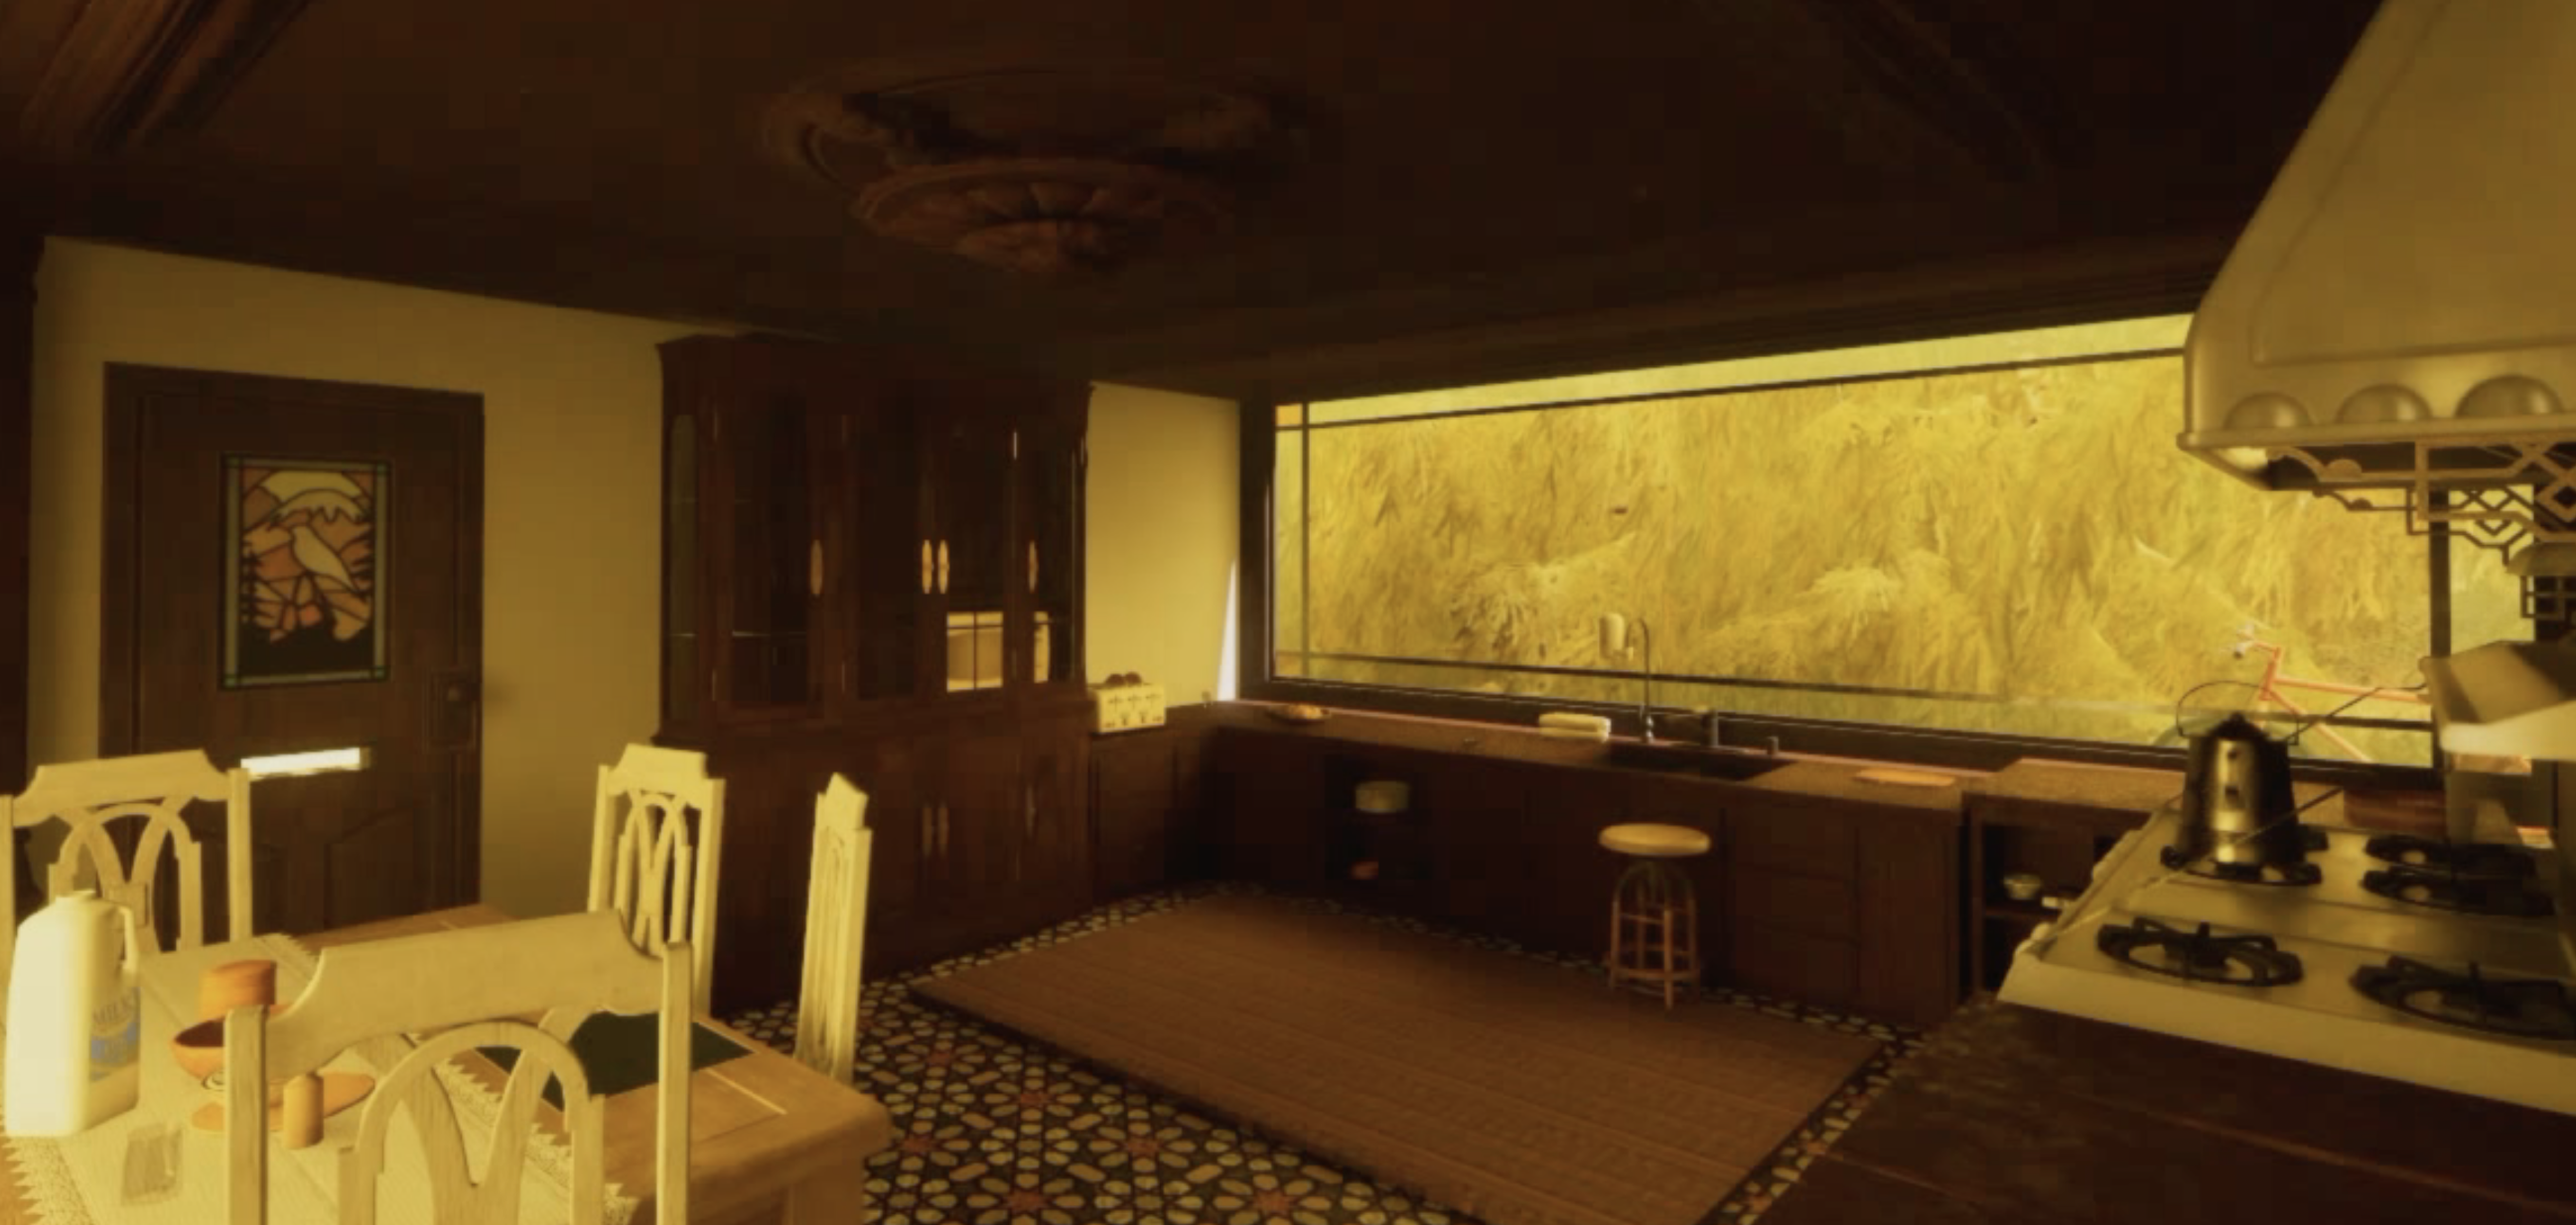
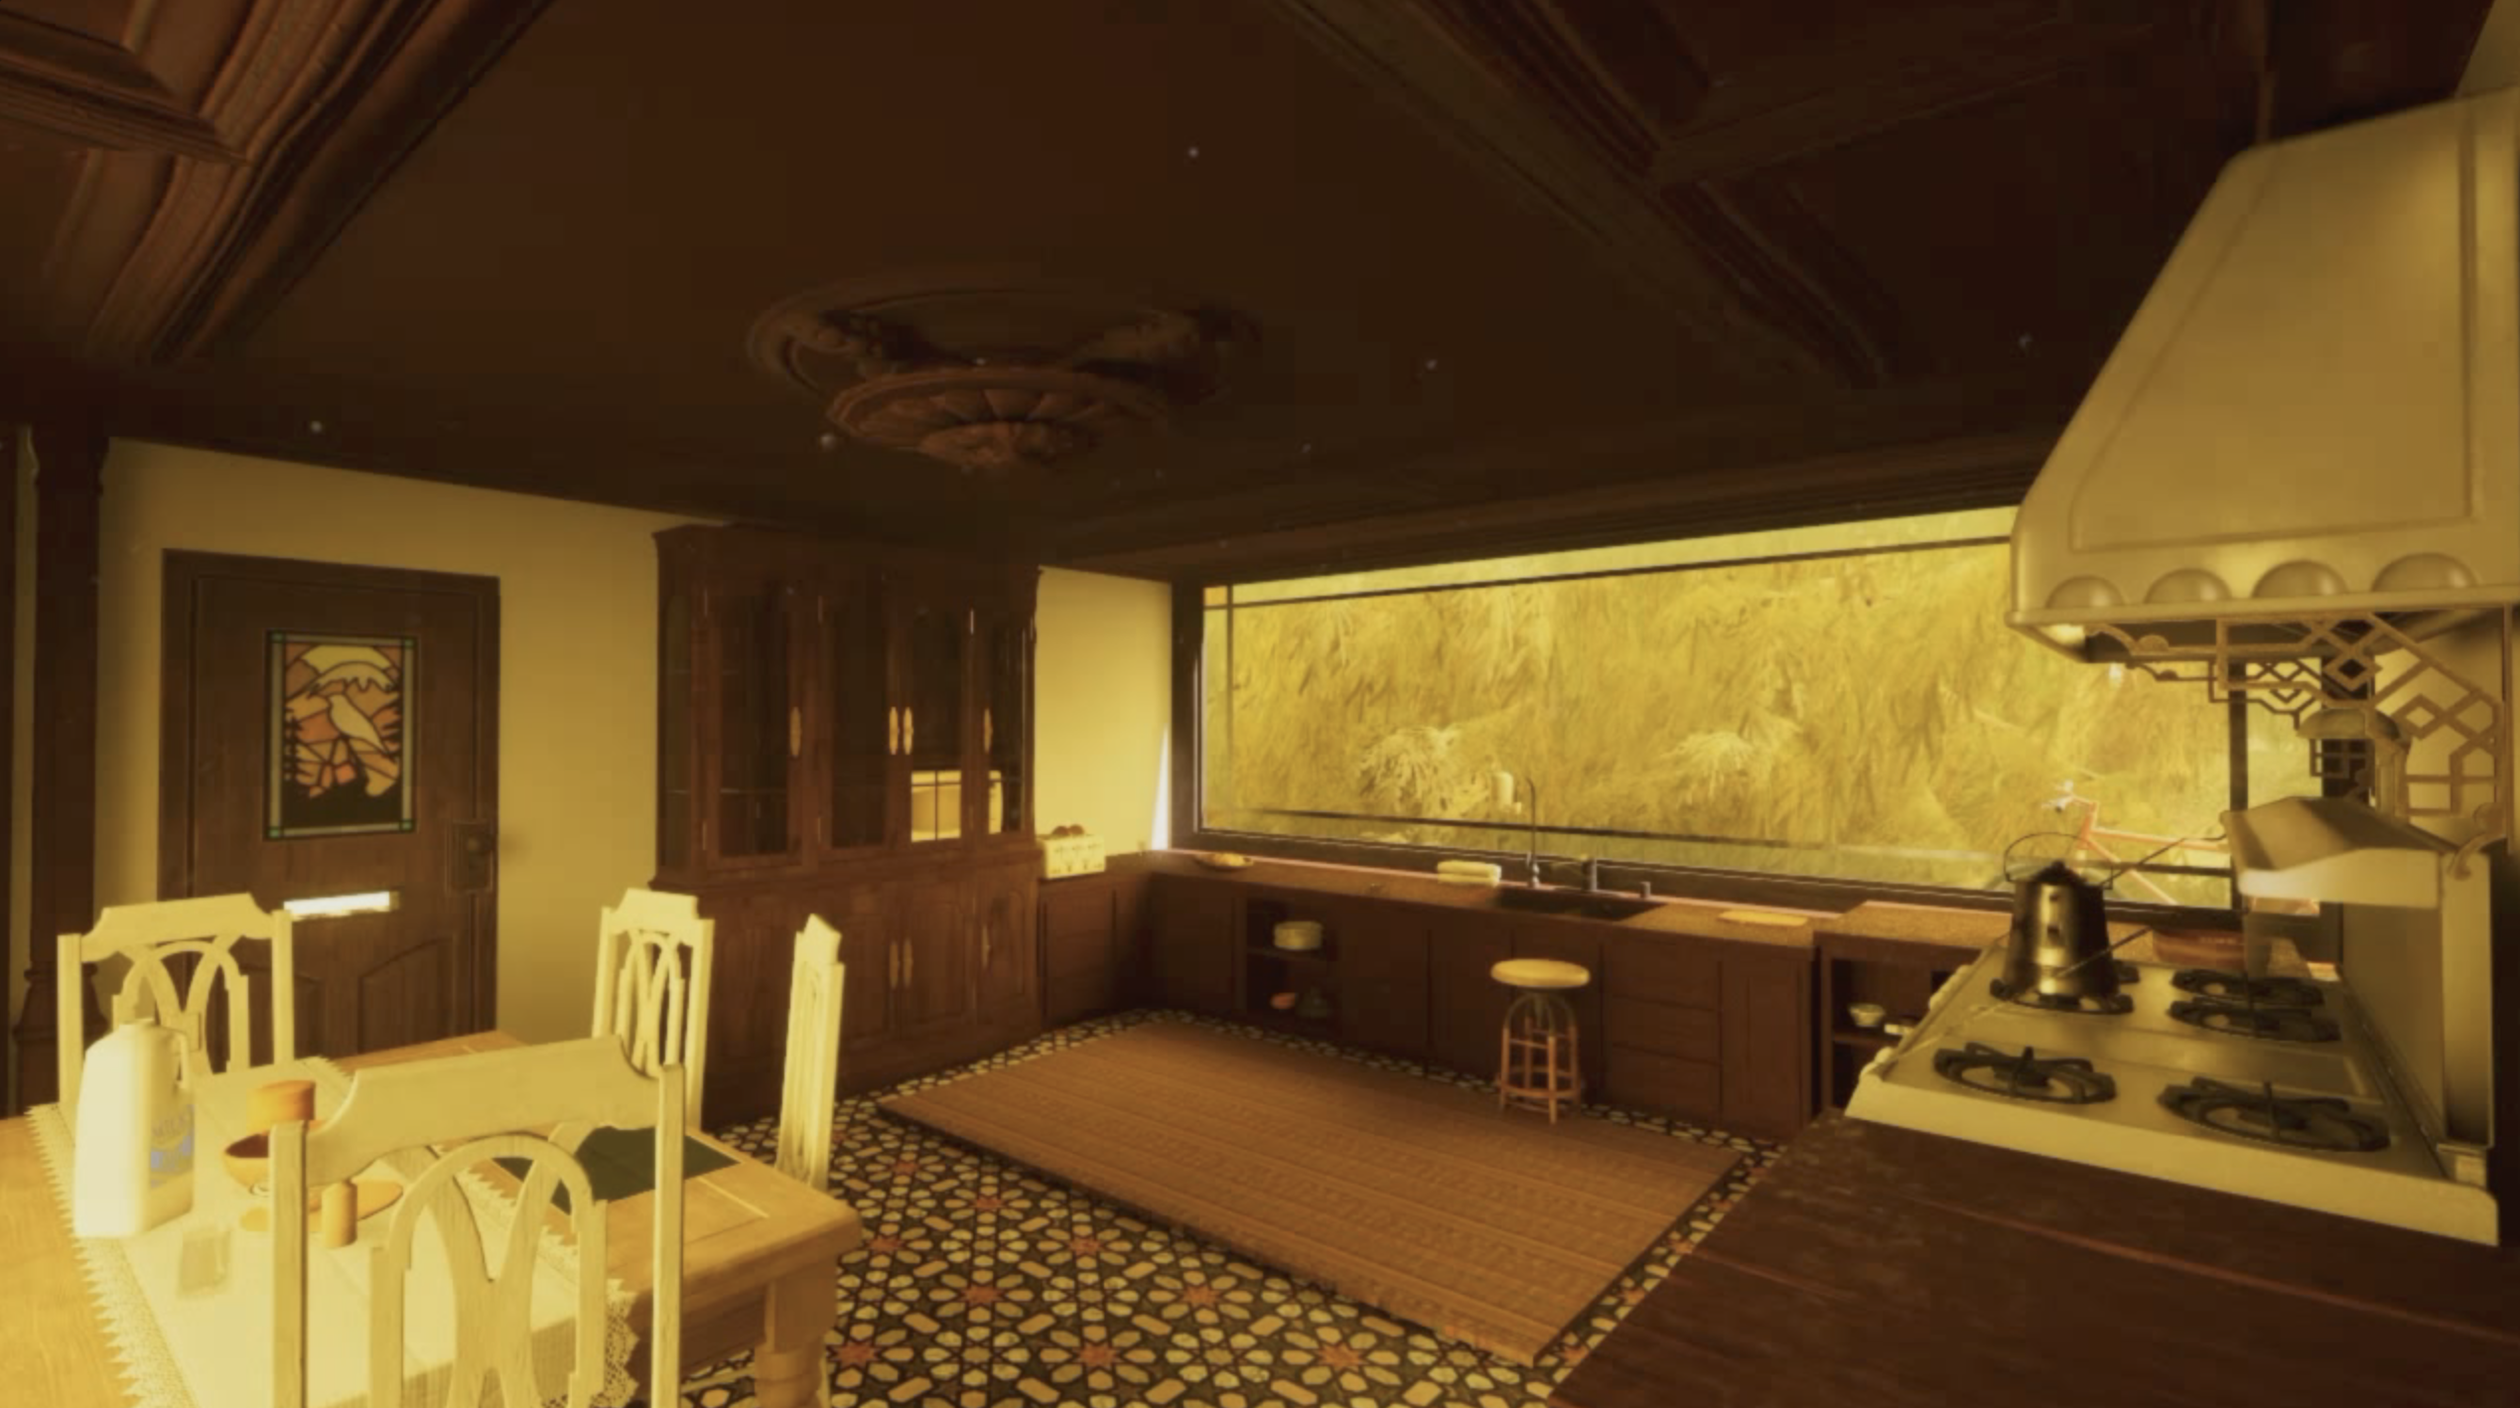
project specific changes

diff --git a/public/project-pages/postcards-between-worlds.html b/public/project-pages/postcards-between-worlds.html
@@ -161,36 +161,6 @@
         </div>
 
         <div class="project-section">
-          <div class="project-content-container"></div>
-          <div class="inline-video-container">
-            <figure>
-              <video
-                autoplay=""
-                class="inline-video"
-                controls=""
-                crossorigin="anonymous"
-                height="700"
-                loop=""
-                muted=""
-                playsinline=""
-                preload="auto"
-                width="700"
-              >
-                <source
-                  src="../assets/images/project-pages/postcards-between-worlds/GrowingFlowers.mp4"
-                  type="video/mp4"
-                />
-                Your browser does not support the video tag.
-              </video>
-              <div></div>
-              <div></div>
-              <div></div>
-              <div></div>
-            </figure>
-          </div>
-        </div>
-
-        <div class="project-section">
           <div class="project-content-container">
             <h3>Narrative drawn from lived experiences</h3>
             <p>
@@ -225,6 +195,36 @@
               >
                 <source
                   src="../assets/images/project-pages/postcards-between-worlds/FoggySky.mp4"
+                  type="video/mp4"
+                />
+                Your browser does not support the video tag.
+              </video>
+              <div></div>
+              <div></div>
+              <div></div>
+              <div></div>
+            </figure>
+          </div>
+        </div>
+
+        <div class="project-section">
+          <div class="project-content-container"></div>
+          <div class="inline-video-container">
+            <figure>
+              <video
+                autoplay=""
+                class="inline-video"
+                controls=""
+                crossorigin="anonymous"
+                height="700"
+                loop=""
+                muted=""
+                playsinline=""
+                preload="auto"
+                width="700"
+              >
+                <source
+                  src="../assets/images/project-pages/postcards-between-worlds/GrowingFlowers.mp4"
                   type="video/mp4"
                 />
                 Your browser does not support the video tag.
@@ -444,7 +444,36 @@
           <div class="inline-img-container">
             <figure>
               <img
-                alt="First Screen of the User Interface"
+                alt="Meadow rendered in Unreal Engine"
+                class="inline-img"
+                src="../assets/images/project-pages/postcards-between-worlds/meadow.png"
+              />
+              <div></div>
+              <div></div>
+              <div></div>
+              <div></div>
+            </figure>
+          </div>
+          <div class="inline-img-container">
+            <figure>
+              <img
+                alt="Meadow with smoke"
+                class="inline-img"
+                src="../assets/images/project-pages/postcards-between-worlds/meadowSmoke.png"
+              />
+              <div></div>
+              <div></div>
+              <div></div>
+              <div></div>
+            </figure>
+          </div>
+        </div>
+
+        <div class="project-section">
+          <div class="inline-img-container">
+            <figure>
+              <img
+                alt="Kitchen rendered in Unreal Engine"
                 class="inline-img"
                 src="../assets/images/project-pages/postcards-between-worlds/kitchen.png"
               />
@@ -457,9 +486,38 @@
           <div class="inline-img-container">
             <figure>
               <img
-                alt="First Screen of the User Interface"
+                alt="Kitchen with smoke"
                 class="inline-img"
-                src="../assets/images/project-pages/postcards-between-worlds/meadowSmoke.png"
+                src="../assets/images/project-pages/postcards-between-worlds/kitchenSmoke.png"
+              />
+              <div></div>
+              <div></div>
+              <div></div>
+              <div></div>
+            </figure>
+          </div>
+        </div>
+
+        <div class="project-section">
+          <div class="inline-img-container">
+            <figure>
+              <img
+                alt="Sky and clouds"
+                class="inline-img"
+                src="../assets/images/project-pages/postcards-between-worlds/sky.png"
+              />
+              <div></div>
+              <div></div>
+              <div></div>
+              <div></div>
+            </figure>
+          </div>
+          <div class="inline-img-container">
+            <figure>
+              <img
+                alt="Sky with smoke"
+                class="inline-img"
+                src="../assets/images/project-pages/postcards-between-worlds/skySmoke.png"
               />
               <div></div>
               <div></div>

diff --git a/public/project-pages/on-my-radar.html b/public/project-pages/on-my-radar.html
@@ -94,7 +94,7 @@
         <div class="project-section">
           <div class="project-content-container">
             <h3>Field Signals</h3>
-            <p>Field Signal is an antenna that catches ambient nature sounds such as bird calls, wind, and water. As you move your finger further from the screen, the sound becomes "wider" and more ambient. Moving closer makes the sound sharp and rhythmic. Trace a circle in the air to “tune” into different frequencies.</p>
+            <p>Field Signal is an antenna that catches ambient nature sounds such as bird calls, wind, and water. As you move your finger further from the screen, the sound becomes wider and more ambient. Moving closer makes the sound sharp and rhythmic. Trace a circle in the air to tune into different frequencies.</p>
           </div>
           <div class="inline-video-container">
             <figure>

diff --git a/public/project-pages/this-machine-is-a-stranger.html b/public/project-pages/this-machine-is-a-stranger.html
@@ -144,7 +144,7 @@
             <figure>
               <img
                 class="inline-img"
-                src="../assets/images/project-pages/this-machine-is-a-stranger/machine6.jpg"
+                src="../assets/images/project-pages/this-machine-is-a-stranger/machine1.jpg"
               />
               <div></div>
               <div></div>
@@ -187,7 +187,7 @@
               <figure>
                 <img
                   class="inline-img"
-                  src="../assets/images/project-pages/this-machine-is-a-stranger/machine4.jpg"
+                  src="../assets/images/project-pages/this-machine-is-a-stranger/machine7.jpg"
                 />
                 <div></div>
                 <div></div>

diff --git a/public/project-pages/intermittent.html b/public/project-pages/intermittent.html
@@ -281,8 +281,8 @@
         </div>
 
         <div class="project-section">
+          <div class="project-content-container"></div>
           <div class="project-content-container">
-            <div class="project-content-container"></div>
             <div class="inline-img-container">
               <figure>
                 <img
